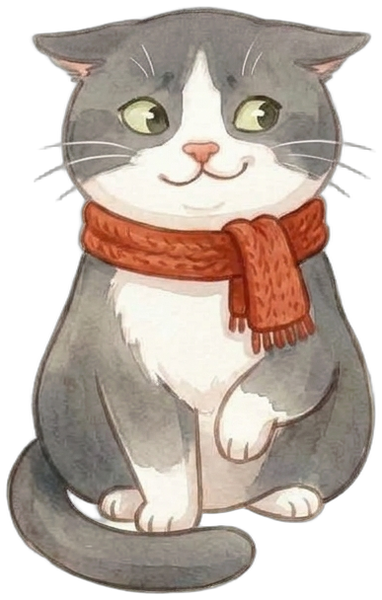
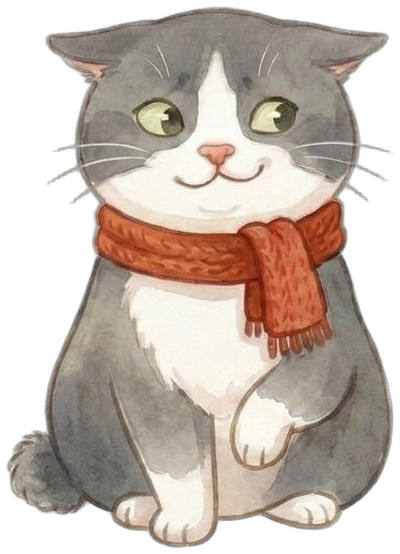
Art: Mario now has his real short stub tail
The four Mario pictures were edited in Gemini to show the real Mario's
very short tail (cut when he was little). Recorded in CLAUDE.md, the
design doc and the art guide so every future picture keeps it.

diff --git a/docs/art-guide.md b/docs/art-guide.md
@@ -246,7 +246,7 @@ Full body, fully visible with some empty space around, plain pure white backgrou
 Character blocks:
 - Silvia: `same face, same big curly brown hair with the red ribbon bow, same mustard yellow coat with round buttons, same red mittens, light brown tights and dark brown boots`
 - Francesco: `same face, same very short black hair, same red Christmas sweater with cream snowflakes and a green band, sleeves pushed up showing strong forearms, same dark blue trousers and brown boots`
-- Mario: `same grey and white markings (grey head and back, white blaze, white chest and white paws), same pink nose, same pale green eyes, same tiny red knitted scarf, same round chubby cartoon cat shape`
+- Mario: `same grey and white markings (grey head and back, white blaze, white chest and white paws), same pink nose, same pale green eyes, same tiny red knitted scarf, same very short fluffy stub tail, same round chubby cartoon cat shape`
 
 Pose lines — emotion poses (do these first):
 
@@ -430,3 +430,17 @@ Using exactly the same cat and painting style as the attached character sheet (s
 ```
 
 Check: square, Mario recognisable, readable when very small. It is NOT cut out: Claude resizes it to the icon sizes iPhone needs.
+
+### Mario's tail fix (done)
+
+The real Mario has **a very short stub tail** (a few centimetres; it was cut when he was little). The first Mario pictures had a long tail, so all four (`mario_sheet`, `mario_proud`, `mario_guilty`, `mario_rings`) were edited in Gemini (chat "Winter Wood – Mario tail"), attaching each picture plus Adri's photo of Mario walking:
+
+```
+The first attached image is a finished illustration of Mario, a cartoon cat. The second image is a photo of the real Mario: look at his tail, it is a very short stub, only a few centimetres long, because it was cut when he was little.
+
+Edit the first image: keep EVERYTHING exactly the same (the pose, the face, the expression, the scarf, the colours, the size, the watercolour style, the plain white background), and change ONLY the tail. Replace the long tail with a very short, fluffy grey stub tail, just a little round tuft, like in the photo. Remove the long tail completely and paint the white background or his body where it used to be.
+
+No text, no logos, no watermark.
+```
+
+**Every new picture of Mario must have the short stub tail.** (The app icon shows only his head and shoulders.)

diff --git a/docs/game-design.md b/docs/game-design.md
@@ -30,7 +30,7 @@ The two players have opposite strengths, so every mini game needs both of them.
 | --- | --- | --- | --- |
 | Silvia (left player) | Curly brown hair with a red ribbon, warm winter coat | Precision and organisation | Timing, aiming, matching, placing things exactly |
 | Francesco (right player) | Very short black hair, visible muscles, Christmas sweater with the sleeves pushed up even in the snow | Strength | Power: tapping fast, holding, pushing, cranking |
-| Mario (guide, not playable) | Grey-and-white cat: grey head and back, white face blaze, chest and paws, pink nose, pale green eyes (the real Mario is a darker charcoal grey with yellow-green eyes; the drawn version is softer and lighter, chosen by Adri). As a spirit he glows softly and wears a tiny red scarf | Forest spirit cat | Appears at the start of each mini game with a short tip, reacts to wins and fails, carries the rings in the finale |
+| Mario (guide, not playable) | Grey-and-white cat: grey head and back, white face blaze, chest and paws, pink nose, pale green eyes, **a very short stub tail** (only a few centimetres: it was cut when he was little) (the real Mario is a darker charcoal grey with yellow-green eyes; the drawn version is softer and lighter, chosen by Adri). As a spirit he glows softly and wears a tiny red scarf | Forest spirit cat | Appears at the start of each mini game with a short tip, reacts to wins and fails, carries the rings in the finale |
 
 Use the real photo of Mario as the art reference for his colours and markings.
 

diff --git a/CLAUDE.md b/CLAUDE.md
@@ -6,7 +6,7 @@ Full details live in `docs/game-design.md` (game design) and `docs/art-guide.md`
 ## What this project is
 
 - A very simple **cooperative 2-player mini-game collection** for **one iPhone**, played in landscape.
-- It is a **wedding gift** for a couple, **Silvia** and **Francesco**, who will play it together. Their cat **Mario** appears as a forest spirit guide.
+- It is a **wedding gift** for a couple, **Silvia** and **Francesco**, who will play it together. Their cat **Mario** appears as a forest spirit guide. Mario has **a very short stub tail** (cut when he was little): every picture of him must show it.
 - Theme: **Christmas + Ghibli-inspired look** (soft watercolour, cozy forest spirits) — but **original characters only**, no Studio Ghibli characters or assets, and never write "Studio Ghibli" in image prompts.
 - Built by Adri, who has **never built a game before** and builds with AI help. There is **no deadline**.
 
